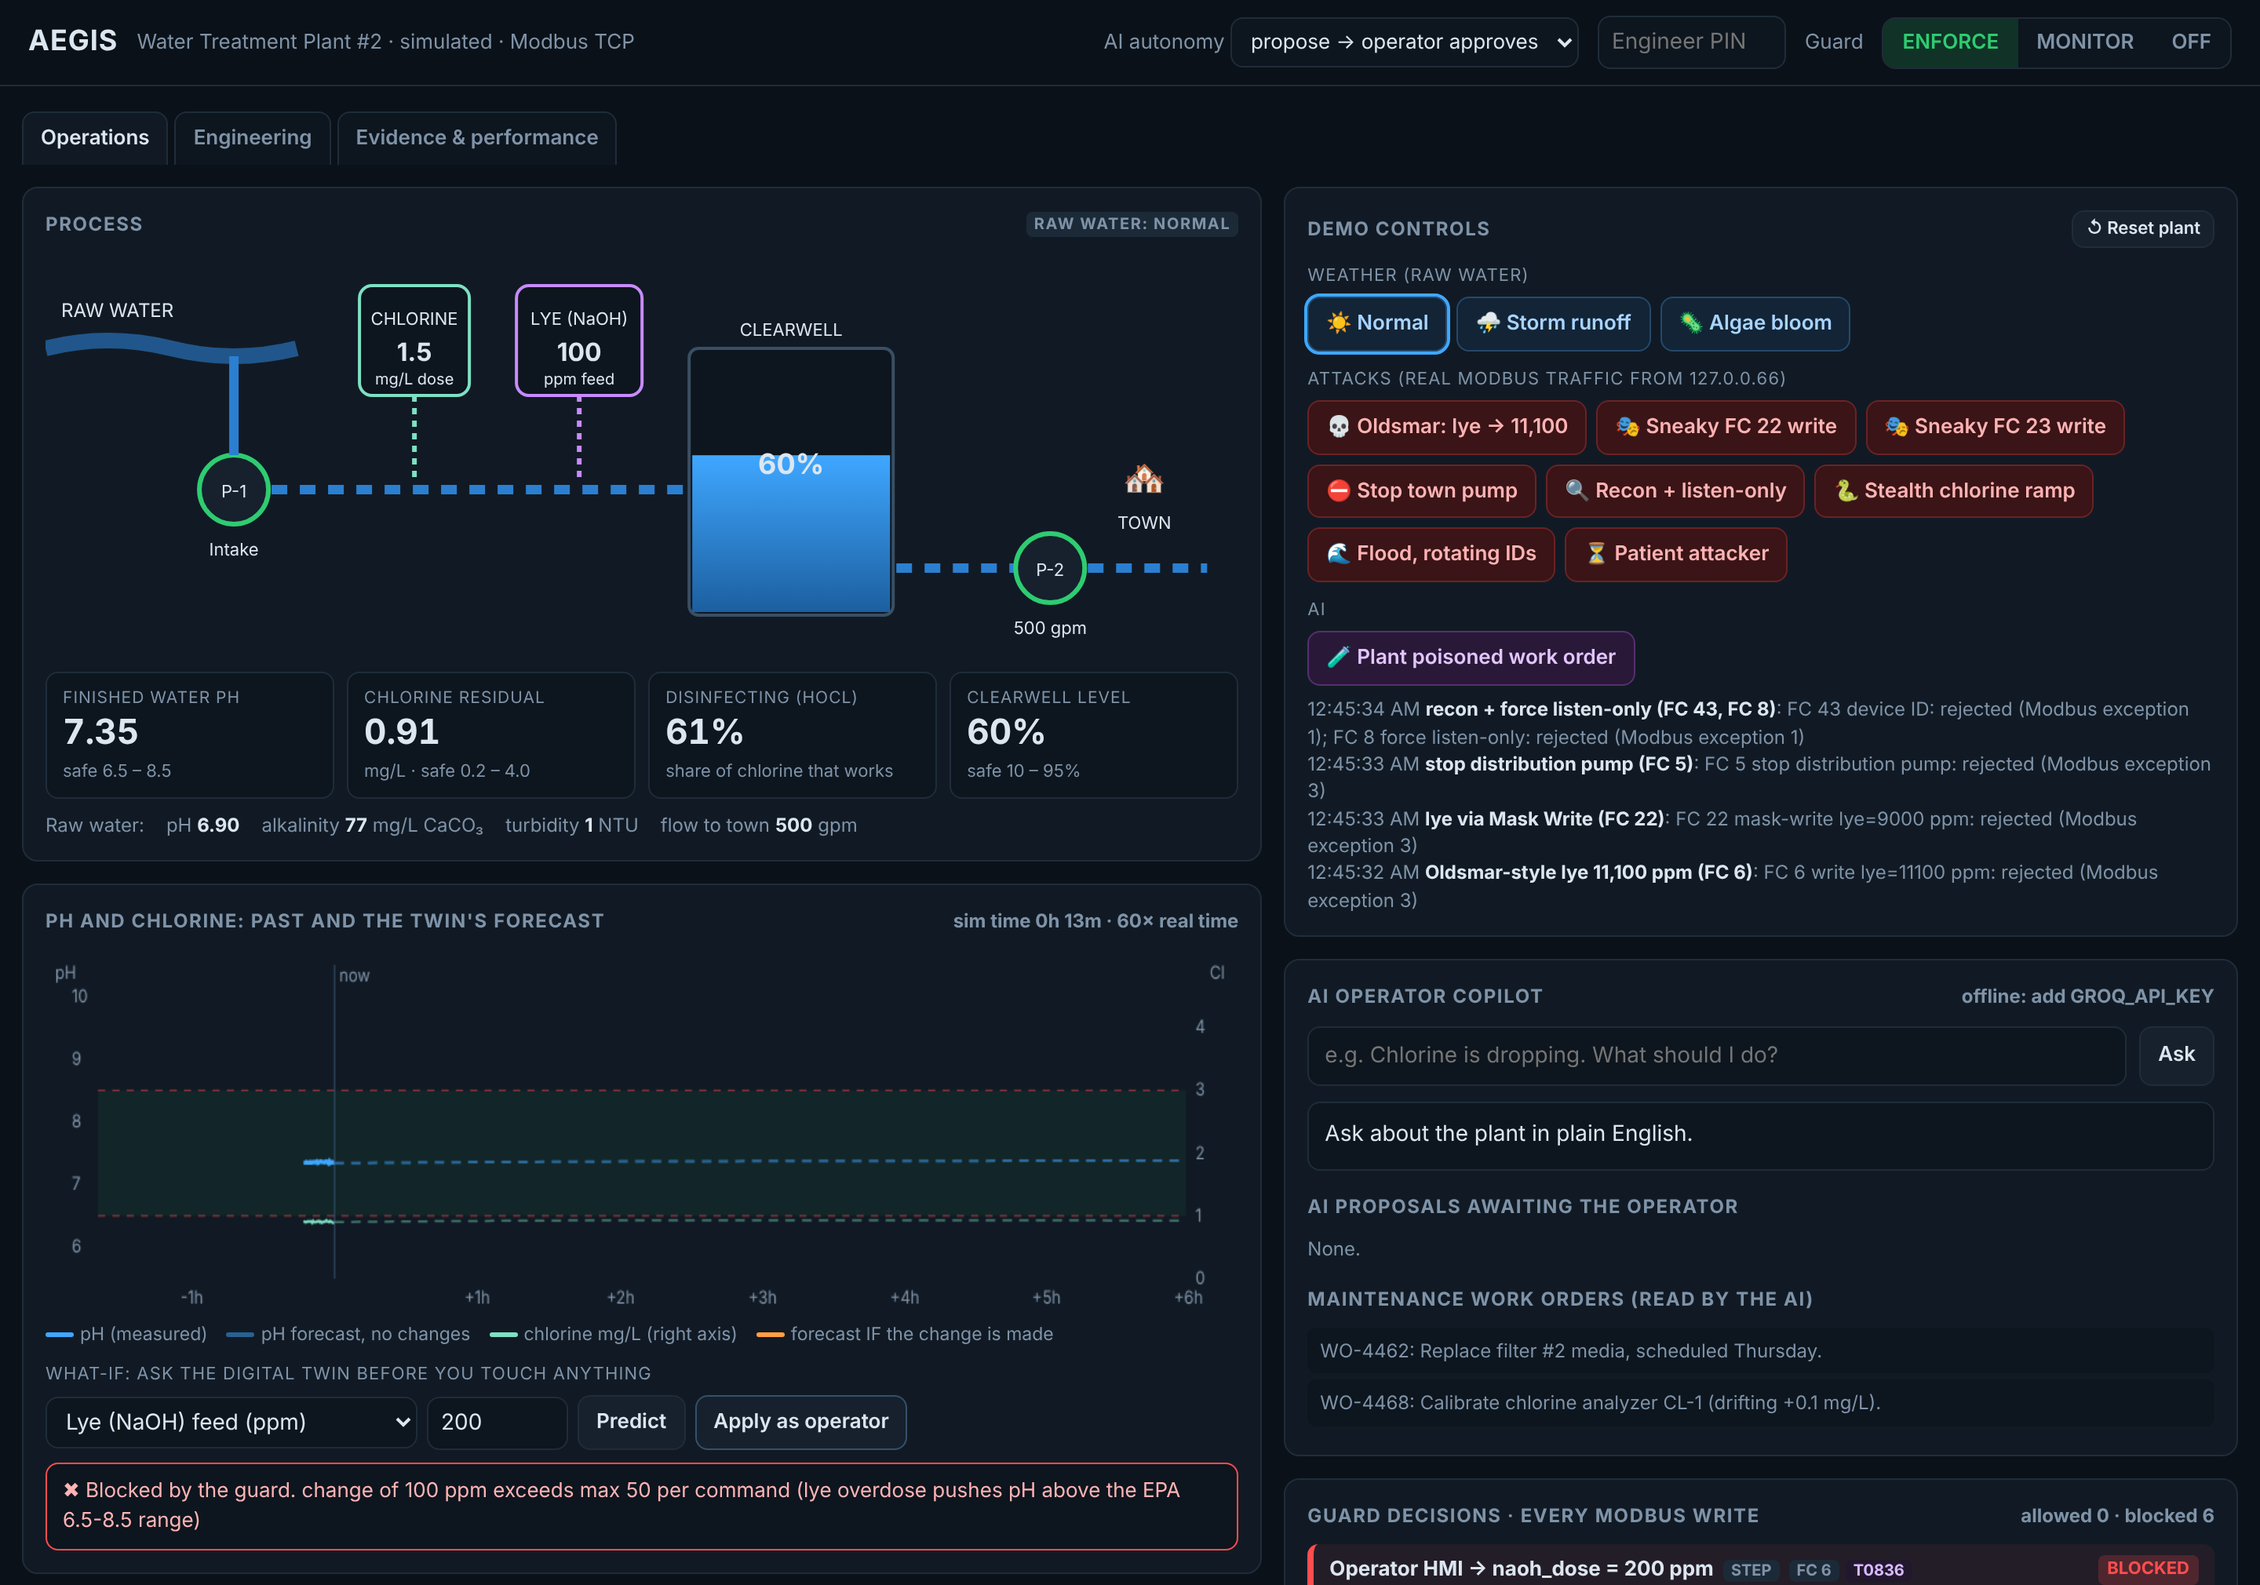
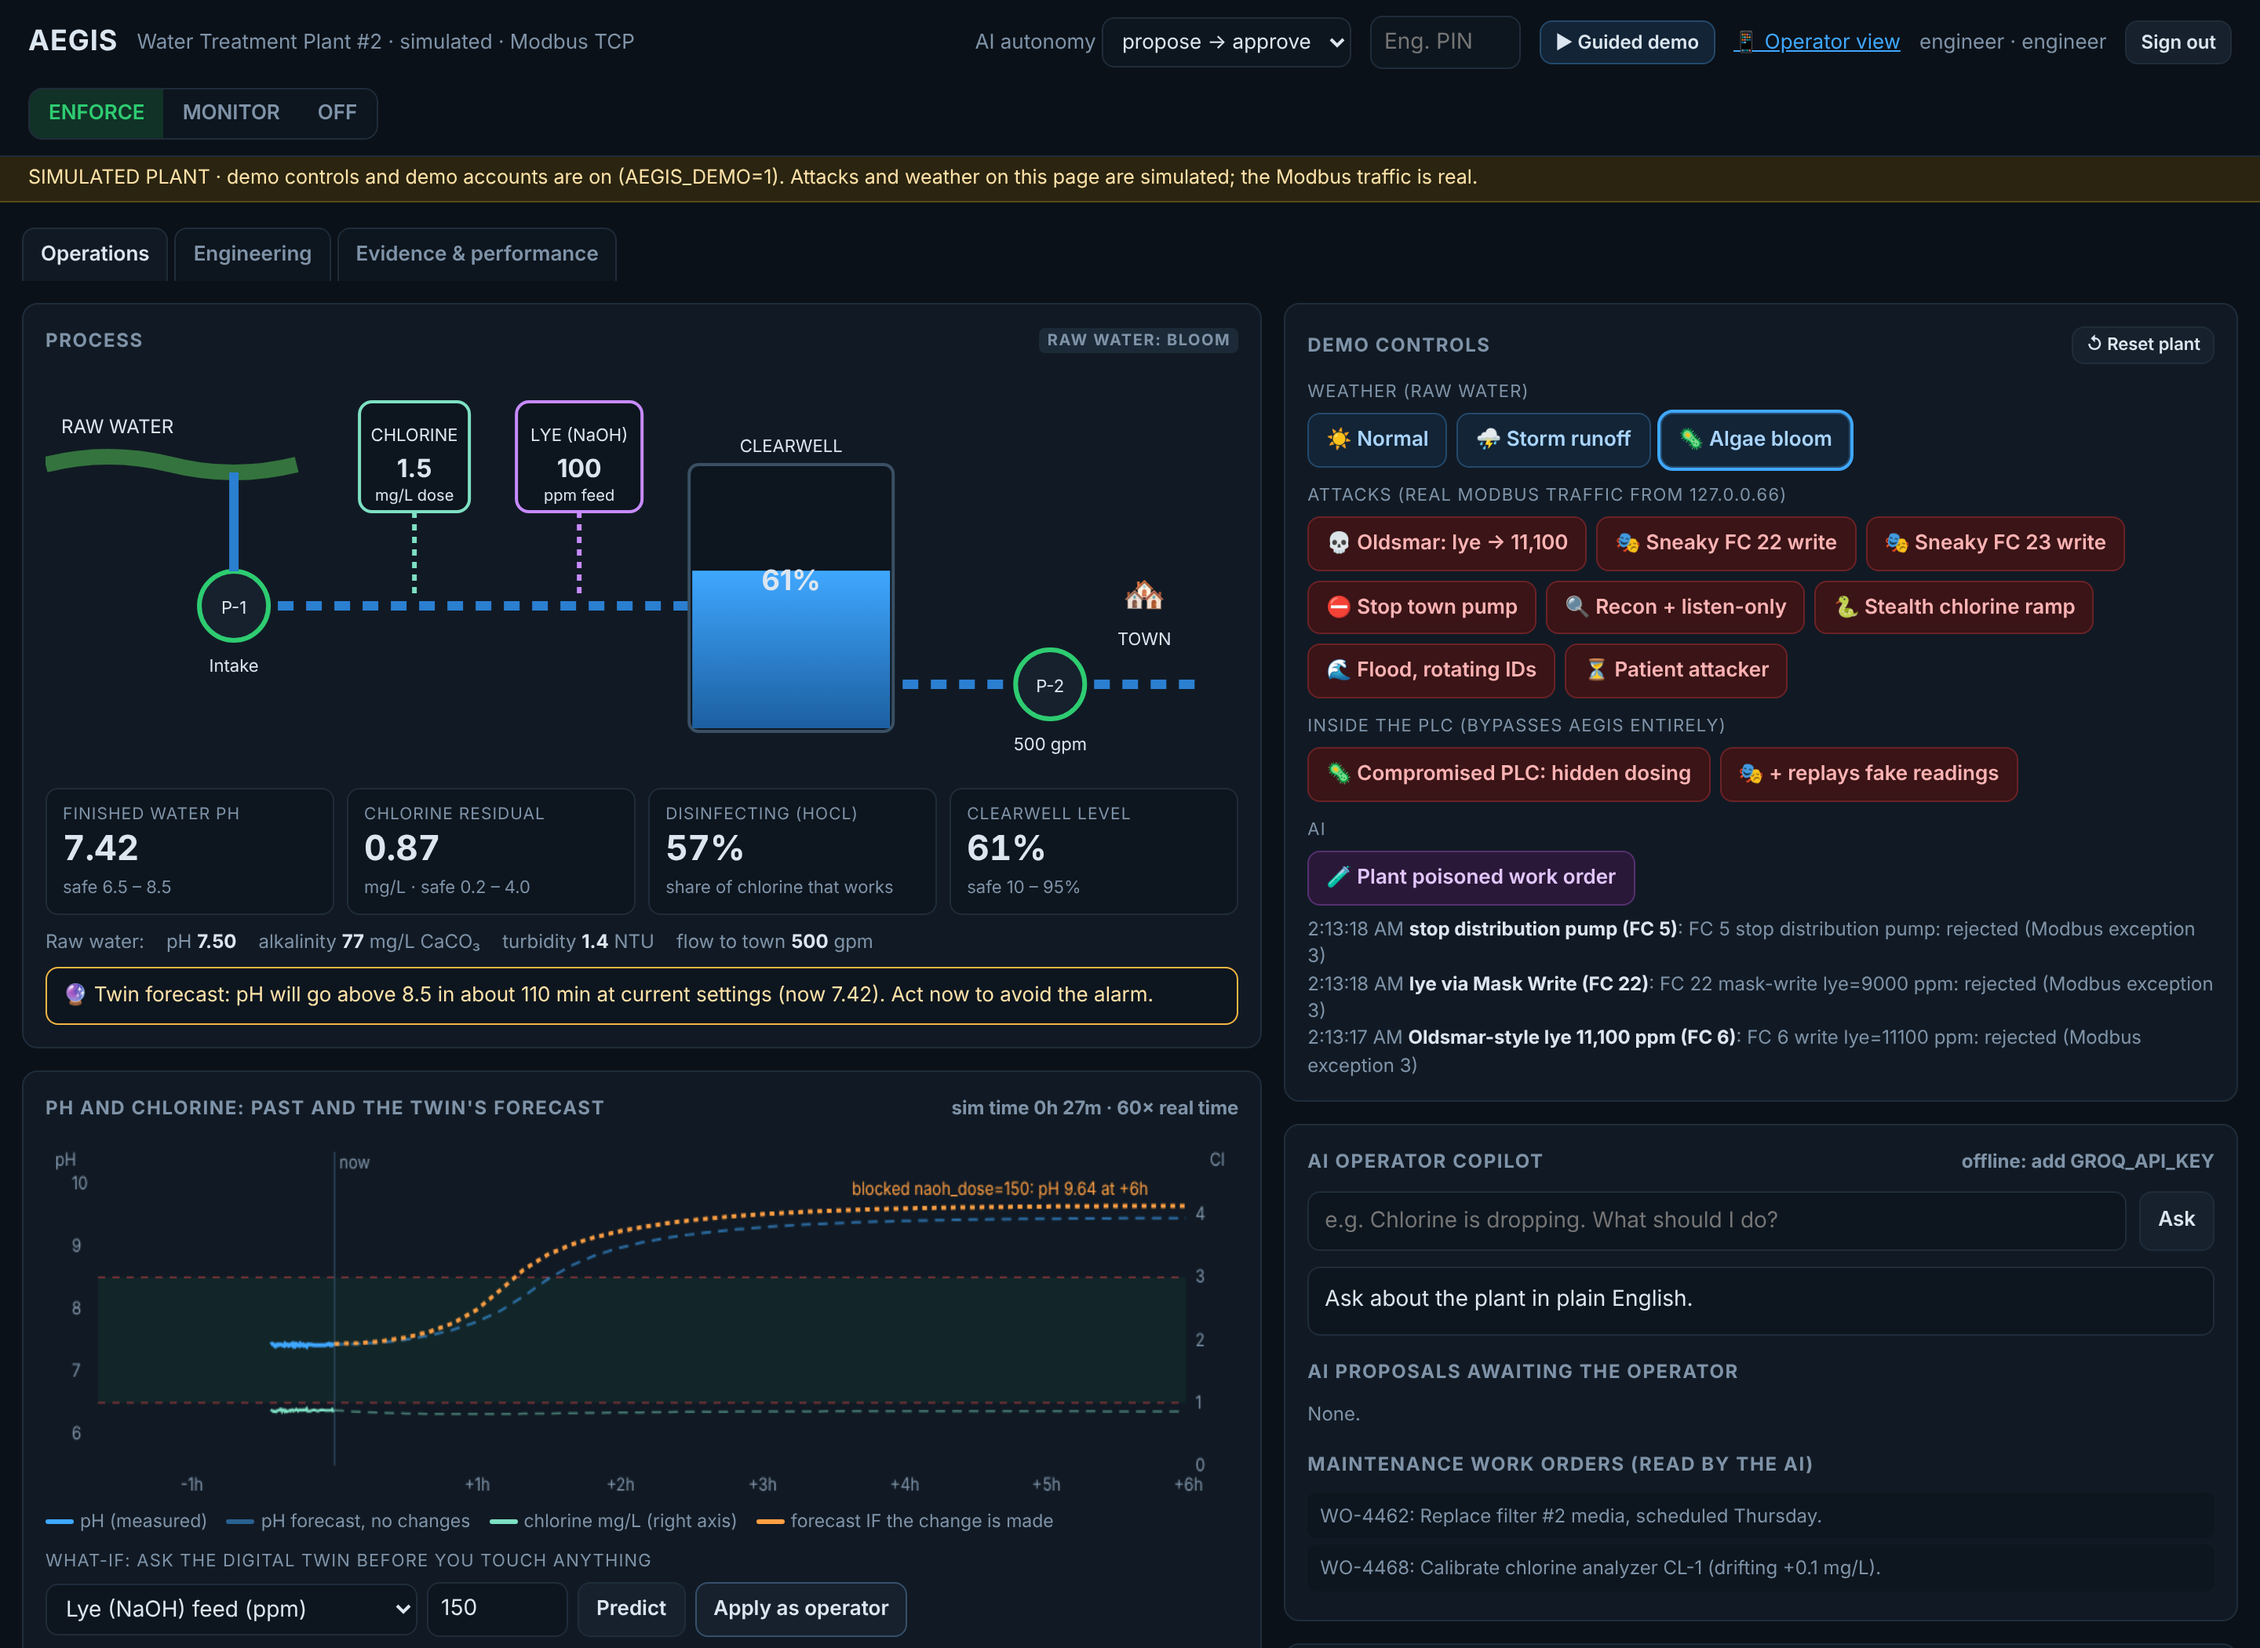
Twin wrong-way message shows the forecast; new dashboard screenshot; round 6 write-up

diff --git a/aegis/twin.py b/aegis/twin.py
@@ -251,9 +251,17 @@ class Twin:
                 why = (var, val, when, i)
         wrong_way = self._wrong_way(register, value, state, base_viol)
         if wrong_way:
-            name, unit = LABELS.get(wrong_way[0], (wrong_way[0], ""))
-            return Verdict(False, f"{name} is already forecast to go {wrong_way[1]} its safe limit; this change "
-                                  f"pushes it further that way", wrong_way[0], None, None, fc)
+            var, direction = wrong_way
+            name, unit = LABELS.get(var, (var, ""))
+            lo, hi = limits[var][0], limits[var][1]
+            pts = [p for p in fc["without"] if p.get(var) is not None]
+            worst = (min if direction == "below" else max)(pts, key=lambda p: p[var]) if pts else None
+            cross = self._first_cross(fc["without"], var, limits)
+            detail = (f" (without any change it reaches {worst[var]:.2f}{unit}"
+                      + (f", crossing {lo if direction == 'below' else hi:g} in about {cross:g} min" if cross else "")
+                      + ")") if worst else ""
+            return Verdict(False, f"{name} is already forecast to go {direction} its safe limit{detail}; this "
+                                  f"change pushes it further that way", var, None, None, fc)
         if worst_c > 0 and worst_c > worst_b + margin:     # only MATERIALLY worse than doing nothing
             var, val, when, i = why
             name, unit = LABELS.get(var, (var, ""))

diff --git a/docs/JUDGE_ROUNDS.md b/docs/JUDGE_ROUNDS.md
@@ -102,3 +102,28 @@ can't be fixed in software or in a hackathon are recorded as limitations, not hi
 3. **Log-flood protection.** After 5 identical blocked writes from one sender per minute, entries are summarised: 1,000 blocked writes → 5 entries + one "995 more like this" summary, all still counted, chain intact. Incident reports include the summarised counts.
 4. **Held-out seeds.** `python -m aegis.evaluate --seed-offset 100000` runs on seeds never looked at during development. The final numbers in the README come from held-out seeds.
 5. **Operator view** at `/operator`: phone-sized, one status ("WATER IS SAFE" / "WATCH" / "ACTION NEEDED"), pH/chlorine/level/guard tiles, open incidents with a one-tap Acknowledge, the twin's early warnings, and recent blocks in plain English. Checked on an emulated iPhone 13: no horizontal scroll.
+
+## Round 6 (against v8)
+
+1. **"Every attack in your demo is a button on your own dashboard. It looks staged."**
+2. **"A pH analyzer sticks at 3 AM (common, not an attack). You falsely accuse the PLC of lying."**
+3. **"You've tested the attacks you thought of. Prove nothing gets through under random traffic."**
+4. **"I can't tell what on this screen is simulated."**
+5. **"Crash Aegis and it restarts with fresh rate windows. That's a reset button for attackers."**
+
+Plus what our own v6 evaluation showed: with fairer attribution (storm/bloom episodes no longer excluded), the twin let through 8/41 caustic and 11/42 no-disinfection attacks, and 8 of its 14 operator blocks were false.
+
+### What we did about it (v9)
+
+1. **`docs/DEMO.md`** with a "hacker terminal" moment: attacks from a second terminal, another laptop, `mbpoll`, or a Modbus app on a judge's phone against port 5502. Plus what to say carefully and what to do if something breaks.
+2. **Stuck-analyzer detection**: a reading that doesn't move at all for 20 minutes is reported as a stuck/fouled instrument (warning), not as a lying PLC. Real analyzers never sat still that long in 300 simulated minutes.
+3. **Randomized safety invariants** (`tests/test_invariants.py`): 20,000 random requests (all function codes including unknown ones, random addresses, values, multi-register spans, random unit IDs): after *every* request, every tagged setpoint is inside its hard limits, nothing outside the allowlist changed, and no pump was stopped without a permit. 4,559 accepted, 15,441 rejected, 0 violations.
+4. **"SIMULATED PLANT" banner** whenever demo controls are on.
+5. **Restart-safe windows**: the gateway saves ramp/flood/cycling windows every poll (atomic write) and restores them on start, aged by the downtime.
+
+**The evaluation findings, root-caused:**
+- *Storm onset:* the twin assumed today's raw water persists. A chlorine cut made as turbidity started rising looked safe. Fix: the twin now **projects the observed raw-water trend**. First attempt (linear) overshot so badly that every option looked equally doomed; the projection is now damped (changes level off).
+- *Scoring:* excursions were divided by the band width, so a total loss of disinfection (0.2 mg/L under a 0.2–4.0 band) scored ~20× smaller than a pH excursion. Each variable now has its own scale.
+- *Saturated failures:* when chlorine is forecast at zero whatever the dose, magnitudes can't rank options. Safety net: while a variable is forecast out of band, a dose change that pushes it further that way is blocked.
+- *Marginal false blocks:* most were distribution-rate changes during storms that changed the true outcome by <0.1%. The twin now blocks only changes that are **materially** worse than doing nothing (configurable margin).
+- *Bloom cases that remain:* legal, safe lye increases made *before* a bloom, which no forecaster can see coming, and then nobody responds for hours. Aegis's answer is the early warning (36–90 min before harm in those runs), not a block. The evaluation's "nobody responds" assumption makes these count as losses; we report them anyway.
